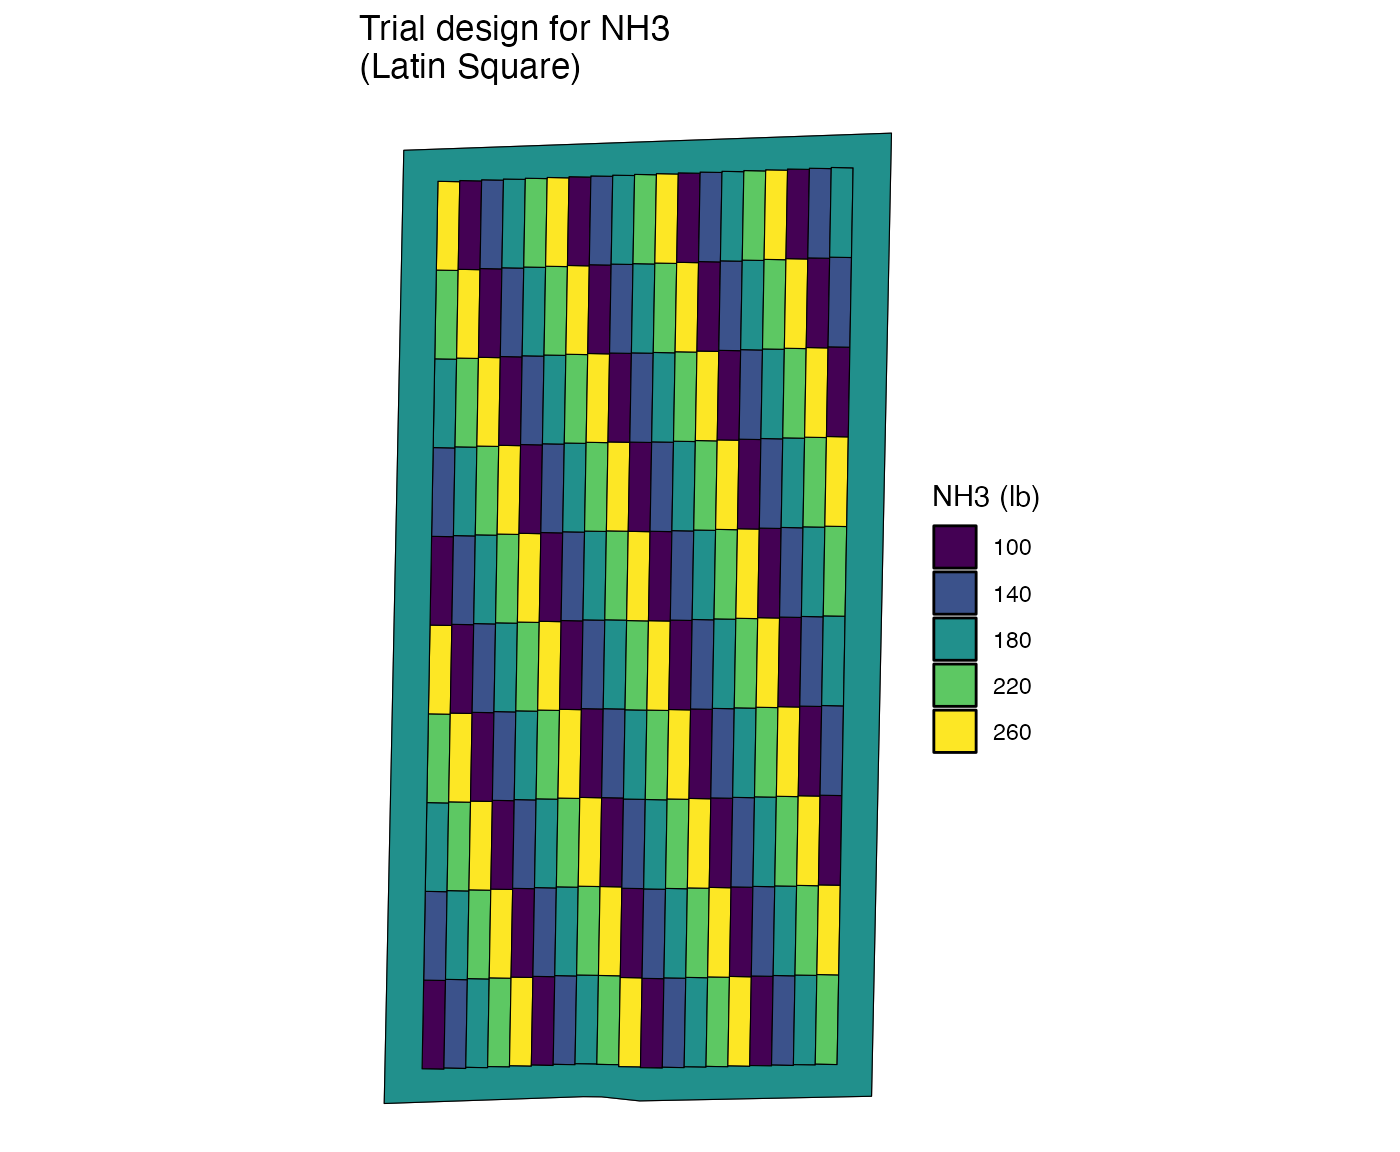
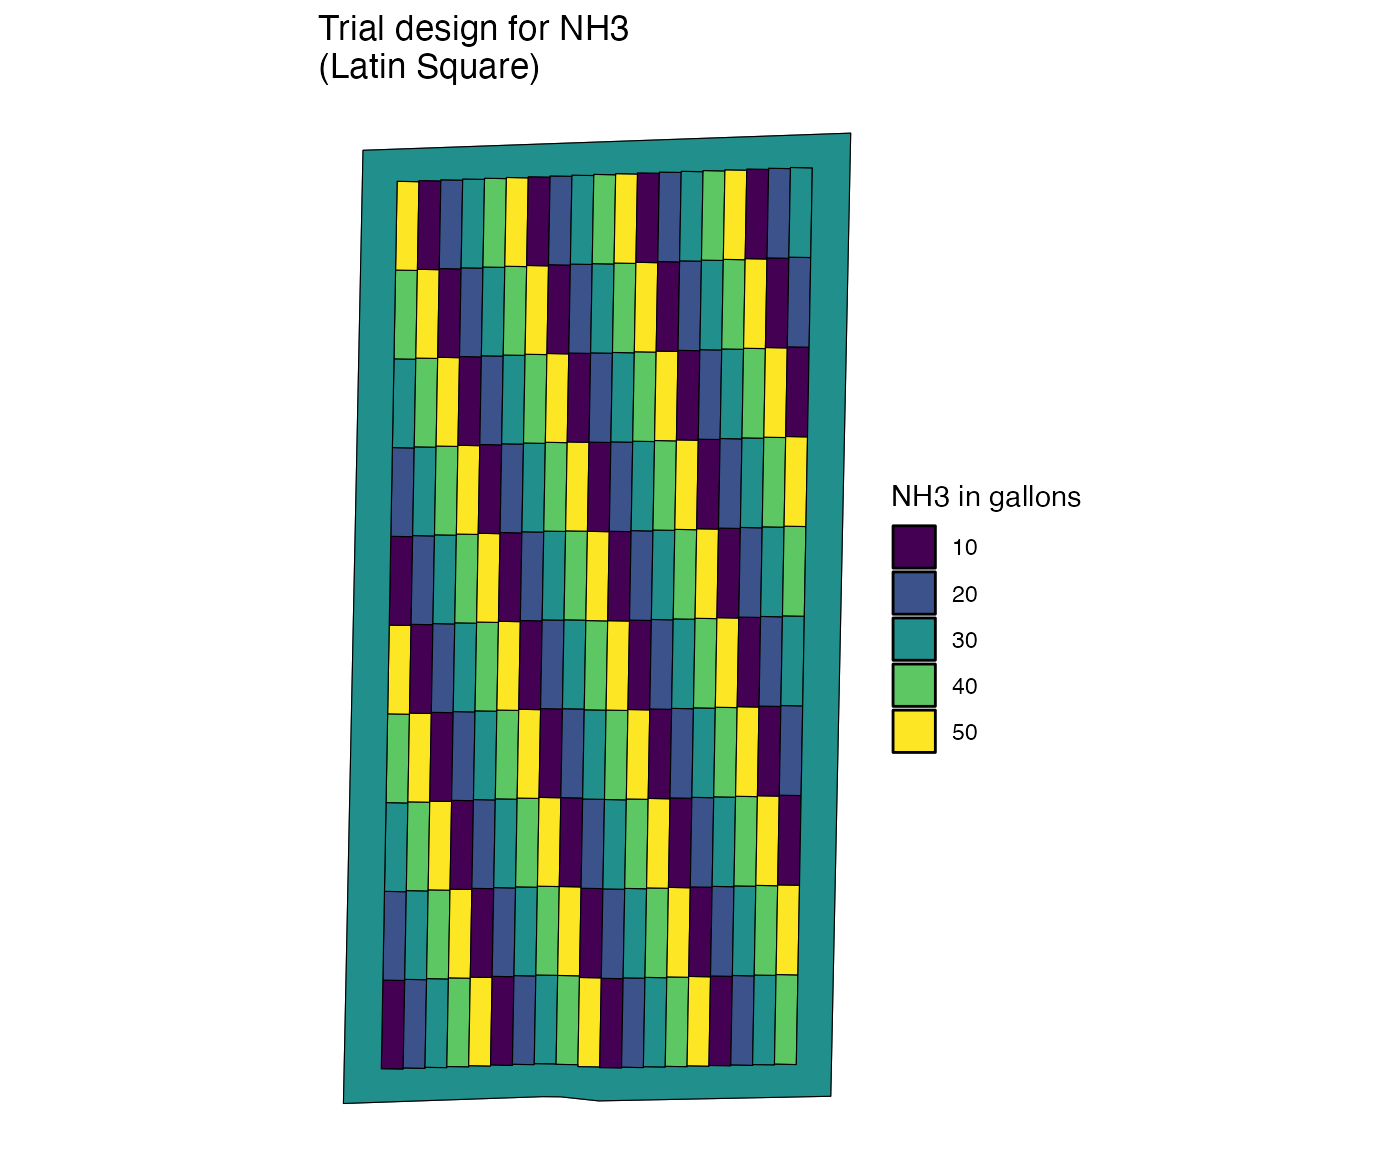
Adding all units conversions to trial maps with base rate

diff --git a/docs/articles/V5-understanding-structure.html b/docs/articles/V5-understanding-structure.html
@@ -289,8 +289,7 @@ experiment plots. Since, it is a list, you can access the
 <span>  <span class="op">)</span></span>
 <span></span>
 <span><span class="co">#--- assign rates ---#</span></span>
-<span><span class="va">td</span> <span class="op">&lt;-</span> <span class="fu"><a href="../reference/assign_rates.html">assign_rates</a></span><span class="op">(</span><span class="va">exp_data</span>, rate_info <span class="op">=</span> <span class="fu"><a href="https://rdrr.io/r/base/list.html" class="external-link">list</a></span><span class="op">(</span><span class="va">seed_rate_info</span>, <span class="va">n_rate_info</span><span class="op">)</span><span class="op">)</span></span>
-<span><span class="co">#&gt; Trial rates were not directly specified, so the trial rates were calculated using min_rate, max_rate, gc_rate, and num_rates</span></span></code></pre></div>
+<span><span class="va">td</span> <span class="op">&lt;-</span> <span class="fu"><a href="../reference/assign_rates.html">assign_rates</a></span><span class="op">(</span><span class="va">exp_data</span>, rate_info <span class="op">=</span> <span class="fu"><a href="https://rdrr.io/r/base/list.html" class="external-link">list</a></span><span class="op">(</span><span class="va">seed_rate_info</span>, <span class="va">n_rate_info</span><span class="op">)</span><span class="op">)</span></span></code></pre></div>
 <p>As you can see, <code>td</code> has a very similar structure and sets
 of variables (e.g., <code>input_name</code> and <code>exp_plots</code>
 were inherited from <code>exp_data</code>). This is not surprising
@@ -299,24 +298,37 @@ because we just assigned rates to the experiment plots with
 <div class="sourceCode" id="cb7"><pre class="downlit sourceCode r">
 <code class="sourceCode R"><span><span class="fu">dplyr</span><span class="fu">::</span><span class="fu"><a href="https://pillar.r-lib.org/reference/glimpse.html" class="external-link">glimpse</a></span><span class="op">(</span><span class="va">td</span><span class="op">)</span></span>
 <span><span class="co">#&gt; Rows: 2</span></span>
-<span><span class="co">#&gt; Columns: 17</span></span>
-<span><span class="co">#&gt; $ input_name       <span style="color: #949494; font-style: italic;">&lt;chr&gt;</span> "seed", "NH3"</span></span>
-<span><span class="co">#&gt; $ input_type       <span style="color: #949494; font-style: italic;">&lt;list&gt;</span> "S", "N"</span></span>
-<span><span class="co">#&gt; $ exp_plots        <span style="color: #949494; font-style: italic;">&lt;list&gt;</span> [&lt;sf[54 x 4]&gt;], [&lt;sf[243 x 4]&gt;]</span></span>
-<span><span class="co">#&gt; $ trial_design     <span style="color: #949494; font-style: italic;">&lt;list&gt;</span> [&lt;sf[55 x 5]&gt;], [&lt;sf[244 x 5]&gt;]</span></span>
-<span><span class="co">#&gt; $ gc_rate          <span style="color: #949494; font-style: italic;">&lt;dbl&gt;</span> 32000, 180</span></span>
-<span><span class="co">#&gt; $ design_type      <span style="color: #949494; font-style: italic;">&lt;chr&gt;</span> "jcls", "ls"</span></span>
-<span><span class="co">#&gt; $ unit             <span style="color: #949494; font-style: italic;">&lt;chr&gt;</span> "seed", "lb"</span></span>
-<span><span class="co">#&gt; $ abline_type      <span style="color: #949494; font-style: italic;">&lt;chr&gt;</span> "free", "free"</span></span>
-<span><span class="co">#&gt; $ ab_lines         <span style="color: #949494; font-style: italic;">&lt;list&gt;</span> [&lt;sf[1 x 2]&gt;], [&lt;sf[1 x 2]&gt;]</span></span>
-<span><span class="co">#&gt; $ harvest_ab_lines <span style="color: #949494; font-style: italic;">&lt;list&gt;</span> [&lt;sf[1 x 2]&gt;], [&lt;sf[1 x 2]&gt;]</span></span>
-<span><span class="co">#&gt; $ field_sf         <span style="color: #949494; font-style: italic;">&lt;MULTIPOLYGON [m]&gt;</span> MULTIPOLYGON (((352970.3 43..., MULTIPOLYGON (((35297…</span></span>
-<span><span class="co">#&gt; $ harvester_width  <span style="color: #949494; font-style: italic;">&lt;dbl&gt;</span> 9.144, 9.144</span></span>
-<span><span class="co">#&gt; $ machine_width    <span style="color: #949494; font-style: italic;">&lt;dbl&gt;</span> 18.288, 13.716</span></span>
-<span><span class="co">#&gt; $ plot_width       <span style="color: #949494; font-style: italic;">&lt;dbl&gt;</span> 60.000, 13.716</span></span>
-<span><span class="co">#&gt; $ section_num      <span style="color: #949494; font-style: italic;">&lt;dbl&gt;</span> 24, 1</span></span>
-<span><span class="co">#&gt; $ headland_length  <span style="color: #949494; font-style: italic;">&lt;dbl&gt;</span> 36.576, 36.576</span></span>
-<span><span class="co">#&gt; $ side_length      <span style="color: #949494; font-style: italic;">&lt;dbl&gt;</span> 13.716, 13.716</span></span></code></pre></div>
+<span><span class="co">#&gt; Columns: 30</span></span>
+<span><span class="co">#&gt; $ input_name        <span style="color: #949494; font-style: italic;">&lt;chr&gt;</span> "seed", "NH3"</span></span>
+<span><span class="co">#&gt; $ field_sf          <span style="color: #949494; font-style: italic;">&lt;MULTIPOLYGON [m]&gt;</span> MULTIPOLYGON (((352970.3 43..., MULTIPOLYGON (((3529…</span></span>
+<span><span class="co">#&gt; $ headland          <span style="color: #949494; font-style: italic;">&lt;list&gt;</span> [&lt;sf[1 x 5]&gt;], [&lt;sf[1 x 5]&gt;]</span></span>
+<span><span class="co">#&gt; $ exp_plots         <span style="color: #949494; font-style: italic;">&lt;list&gt;</span> [&lt;sf[54 x 4]&gt;], [&lt;sf[243 x 4]&gt;]</span></span>
+<span><span class="co">#&gt; $ ab_lines          <span style="color: #949494; font-style: italic;">&lt;list&gt;</span> [&lt;sf[1 x 2]&gt;], [&lt;sf[1 x 2]&gt;]</span></span>
+<span><span class="co">#&gt; $ harvest_ab_lines  <span style="color: #949494; font-style: italic;">&lt;list&gt;</span> [&lt;sf[1 x 2]&gt;], [&lt;sf[1 x 2]&gt;]</span></span>
+<span><span class="co">#&gt; $ plot_width        <span style="color: #949494; font-style: italic;">&lt;dbl&gt;</span> 60.000, 13.716</span></span>
+<span><span class="co">#&gt; $ harvester_width   <span style="color: #949494; font-style: italic;">&lt;dbl&gt;</span> 9.144, 9.144</span></span>
+<span><span class="co">#&gt; $ machine_width     <span style="color: #949494; font-style: italic;">&lt;dbl&gt;</span> 18.288, 13.716</span></span>
+<span><span class="co">#&gt; $ section_num       <span style="color: #949494; font-style: italic;">&lt;dbl&gt;</span> 24, 1</span></span>
+<span><span class="co">#&gt; $ headland_length   <span style="color: #949494; font-style: italic;">&lt;dbl&gt;</span> 36.576, 36.576</span></span>
+<span><span class="co">#&gt; $ side_length       <span style="color: #949494; font-style: italic;">&lt;dbl&gt;</span> 13.716, 13.716</span></span>
+<span><span class="co">#&gt; $ abline_type       <span style="color: #949494; font-style: italic;">&lt;chr&gt;</span> "free", "free"</span></span>
+<span><span class="co">#&gt; $ design_type       <span style="color: #949494; font-style: italic;">&lt;chr&gt;</span> "jcls", "ls"</span></span>
+<span><span class="co">#&gt; $ gc_rate           <span style="color: #949494; font-style: italic;">&lt;dbl&gt;</span> 32000, 180</span></span>
+<span><span class="co">#&gt; $ unit              <span style="color: #949494; font-style: italic;">&lt;chr&gt;</span> "seed", "lb"</span></span>
+<span><span class="co">#&gt; $ tgt_rate_original <span style="color: #949494; font-style: italic;">&lt;list&gt;</span> &lt;16000, 21333, 26667, 32000, 40000&gt;, &lt;1…</span></span>
+<span><span class="co">#&gt; $ tgt_rate_equiv    <span style="color: #949494; font-style: italic;">&lt;list&gt;</span> &lt;16000, 21333, 26667, 32000, 40000&gt;, &lt;82.0, 114.8, …</span></span>
+<span><span class="co">#&gt; $ include_base_rate <span style="color: #949494; font-style: italic;">&lt;lgl&gt;</span> FALSE, FALSE</span></span>
+<span><span class="co">#&gt; $ total_equiv       <span style="color: #949494; font-style: italic;">&lt;list&gt;</span> &lt;16000, 21333, 26667, 32000, 40000&gt;, &lt;100, 140, 180…</span></span>
+<span><span class="co">#&gt; $ min_rate          <span style="color: #949494; font-style: italic;">&lt;dbl&gt;</span> 16000, NA</span></span>
+<span><span class="co">#&gt; $ max_rate          <span style="color: #949494; font-style: italic;">&lt;dbl&gt;</span> 40000, NA</span></span>
+<span><span class="co">#&gt; $ num_rates         <span style="color: #949494; font-style: italic;">&lt;dbl&gt;</span> 5, 5</span></span>
+<span><span class="co">#&gt; $ rank_seq_ws       <span style="color: #949494; font-style: italic;">&lt;list&gt;</span> &lt;NULL&gt;, &lt;5, 4, 3, 2, 1&gt;</span></span>
+<span><span class="co">#&gt; $ rank_seq_as       <span style="color: #949494; font-style: italic;">&lt;list&gt;</span> &lt;NULL&gt;, &lt;NULL&gt;</span></span>
+<span><span class="co">#&gt; $ push              <span style="color: #949494; font-style: italic;">&lt;lgl&gt;</span> FALSE, TRUE</span></span>
+<span><span class="co">#&gt; $ rates_data        <span style="color: #949494; font-style: italic;">&lt;list&gt;</span> [&lt;data.table[5 x 2]&gt;], [&lt;data.table[5 x 2]&gt;]</span></span>
+<span><span class="co">#&gt; $ experiment_design <span style="color: #949494; font-style: italic;">&lt;list&gt;</span> [&lt;sf[54 x 5]&gt;], [&lt;sf[243 x 5]&gt;]</span></span>
+<span><span class="co">#&gt; $ input_type        <span style="color: #949494; font-style: italic;">&lt;list&gt;</span> "S", "N"</span></span>
+<span><span class="co">#&gt; $ trial_design      <span style="color: #949494; font-style: italic;">&lt;list&gt;</span> [&lt;sf[55 x 5]&gt;], [&lt;sf[244 x 5]&gt;]</span></span></code></pre></div>
 <p>A trial design (experiment plots with rates assigned) has a name of
 <code>trial_design</code>, which is also a list-column.</p>
 <div class="sourceCode" id="cb8"><pre class="downlit sourceCode r">
@@ -333,15 +345,15 @@ because we just assigned rates to the experiment plots with
 <span><span class="co">#&gt; Geodetic CRS:  WGS 84</span></span>
 <span><span class="co">#&gt; First 10 features:</span></span>
 <span><span class="co">#&gt;     rate strip_id plot_id       type                       geometry</span></span>
-<span><span class="co">#&gt; 1  16000        1       1 experiment POLYGON ((-16.69997 39.1199...</span></span>
-<span><span class="co">#&gt; 2  26667        1       2 experiment POLYGON ((-16.69997 39.1206...</span></span>
-<span><span class="co">#&gt; 3  40000        1       3 experiment POLYGON ((-16.69997 39.1213...</span></span>
-<span><span class="co">#&gt; 4  32000        1       4 experiment POLYGON ((-16.69997 39.1221...</span></span>
-<span><span class="co">#&gt; 5  21333        1       5 experiment POLYGON ((-16.69997 39.1228...</span></span>
-<span><span class="co">#&gt; 6  16000        1       6 experiment POLYGON ((-16.69997 39.1235...</span></span>
-<span><span class="co">#&gt; 7  26667        1       7 experiment POLYGON ((-16.69997 39.1242...</span></span>
-<span><span class="co">#&gt; 8  40000        1       8 experiment POLYGON ((-16.69997 39.125,...</span></span>
-<span><span class="co">#&gt; 9  32000        1       9 experiment POLYGON ((-16.69997 39.1257...</span></span>
+<span><span class="co">#&gt; 1  32000        1       1 experiment POLYGON ((-16.69997 39.1199...</span></span>
+<span><span class="co">#&gt; 2  21333        1       2 experiment POLYGON ((-16.69997 39.1206...</span></span>
+<span><span class="co">#&gt; 3  16000        1       3 experiment POLYGON ((-16.69997 39.1213...</span></span>
+<span><span class="co">#&gt; 4  26667        1       4 experiment POLYGON ((-16.69997 39.1221...</span></span>
+<span><span class="co">#&gt; 5  40000        1       5 experiment POLYGON ((-16.69997 39.1228...</span></span>
+<span><span class="co">#&gt; 6  32000        1       6 experiment POLYGON ((-16.69997 39.1235...</span></span>
+<span><span class="co">#&gt; 7  21333        1       7 experiment POLYGON ((-16.69997 39.1242...</span></span>
+<span><span class="co">#&gt; 8  16000        1       8 experiment POLYGON ((-16.69997 39.125,...</span></span>
+<span><span class="co">#&gt; 9  26667        1       9 experiment POLYGON ((-16.69997 39.1257...</span></span>
 <span><span class="co">#&gt; 10 40000        2       1 experiment POLYGON ((-16.69927 39.1199...</span></span>
 <span><span class="co">#&gt; </span></span>
 <span><span class="co">#&gt; [[2]]</span></span>
@@ -376,15 +388,15 @@ of course wrangle them direclty if you would like to.</p>
 <span><span class="co">#&gt; Geodetic CRS:  WGS 84</span></span>
 <span><span class="co">#&gt; First 10 features:</span></span>
 <span><span class="co">#&gt;     rate strip_id plot_id       type                       geometry</span></span>
-<span><span class="co">#&gt; 1  16000        1       1 experiment POLYGON ((-16.69997 39.1199...</span></span>
-<span><span class="co">#&gt; 2  26667        1       2 experiment POLYGON ((-16.69997 39.1206...</span></span>
-<span><span class="co">#&gt; 3  40000        1       3 experiment POLYGON ((-16.69997 39.1213...</span></span>
-<span><span class="co">#&gt; 4  32000        1       4 experiment POLYGON ((-16.69997 39.1221...</span></span>
-<span><span class="co">#&gt; 5  21333        1       5 experiment POLYGON ((-16.69997 39.1228...</span></span>
-<span><span class="co">#&gt; 6  16000        1       6 experiment POLYGON ((-16.69997 39.1235...</span></span>
-<span><span class="co">#&gt; 7  26667        1       7 experiment POLYGON ((-16.69997 39.1242...</span></span>
-<span><span class="co">#&gt; 8  40000        1       8 experiment POLYGON ((-16.69997 39.125,...</span></span>
-<span><span class="co">#&gt; 9  32000        1       9 experiment POLYGON ((-16.69997 39.1257...</span></span>
+<span><span class="co">#&gt; 1  32000        1       1 experiment POLYGON ((-16.69997 39.1199...</span></span>
+<span><span class="co">#&gt; 2  21333        1       2 experiment POLYGON ((-16.69997 39.1206...</span></span>
+<span><span class="co">#&gt; 3  16000        1       3 experiment POLYGON ((-16.69997 39.1213...</span></span>
+<span><span class="co">#&gt; 4  26667        1       4 experiment POLYGON ((-16.69997 39.1221...</span></span>
+<span><span class="co">#&gt; 5  40000        1       5 experiment POLYGON ((-16.69997 39.1228...</span></span>
+<span><span class="co">#&gt; 6  32000        1       6 experiment POLYGON ((-16.69997 39.1235...</span></span>
+<span><span class="co">#&gt; 7  21333        1       7 experiment POLYGON ((-16.69997 39.1242...</span></span>
+<span><span class="co">#&gt; 8  16000        1       8 experiment POLYGON ((-16.69997 39.125,...</span></span>
+<span><span class="co">#&gt; 9  26667        1       9 experiment POLYGON ((-16.69997 39.1257...</span></span>
 <span><span class="co">#&gt; 10 40000        2       1 experiment POLYGON ((-16.69927 39.1199...</span></span>
 <span></span>
 <span><span class="co">#--- change the rates to all 0 ---#</span></span>
@@ -430,7 +442,7 @@ have a mixed treatment problem.</p>
 <span><span class="co">#&gt; $ harvest_ab_line  <span style="color: #949494; font-style: italic;">&lt;LINESTRING [m]&gt;</span> LINESTRING (352984.9 433140..., LINESTRING (352984.9 …</span></span>
 <span><span class="co">#&gt; $ overlap_data     <span style="color: #949494; font-style: italic;">&lt;list&gt;</span> [&lt;data.table[40 x 7]&gt;], [&lt;data.table[41 x 7]&gt;]</span></span>
 <span><span class="co">#&gt; $ harvester_path   <span style="color: #949494; font-style: italic;">&lt;list&gt;</span> [&lt;sf[46 x 3]&gt;], [&lt;sf[46 x 3]&gt;]</span></span>
-<span><span class="co">#&gt; $ g_path_alignment <span style="color: #949494; font-style: italic;">&lt;list&gt;</span> [NULL, &lt;environment: 0x127187e40&gt;, &lt;enviro…</span></span>
+<span><span class="co">#&gt; $ g_path_alignment <span style="color: #949494; font-style: italic;">&lt;list&gt;</span> [NULL, &lt;environment: 0x145c02be8&gt;, &lt;enviro…</span></span>
 <span><span class="co">#&gt; $ g_overlap        <span style="color: #949494; font-style: italic;">&lt;list&gt;</span> [3.0000000, 4.0000000, 5.0000000, 6.0000000, 7.00000…</span></span></code></pre></div>
 <p>As you can see, its output has four list-columns and there are three
 different types of objects stored in them.</p>

diff --git a/docs/articles/V4-diagnose-td.html b/docs/articles/V4-diagnose-td.html
@@ -306,8 +306,7 @@ where the two input rates are highly correlated. Here is an example.</p>
 <span>    rank_seq_as <span class="op">=</span> <span class="fu"><a href="https://rdrr.io/r/base/c.html" class="external-link">c</a></span><span class="op">(</span><span class="fl">5</span>, <span class="fl">1</span>, <span class="fl">4</span>, <span class="fl">2</span>, <span class="fl">3</span><span class="op">)</span></span>
 <span>  <span class="op">)</span></span>
 <span></span>
-<span><span class="va">td_two_input</span> <span class="op">&lt;-</span> <span class="fu"><a href="../reference/assign_rates.html">assign_rates</a></span><span class="op">(</span><span class="va">exp_data</span>, rate_info <span class="op">=</span> <span class="fu"><a href="https://rdrr.io/r/base/list.html" class="external-link">list</a></span><span class="op">(</span><span class="va">seed_rate_info</span>, <span class="va">n_rate_info</span><span class="op">)</span><span class="op">)</span></span>
-<span><span class="co">#&gt; Trial rates were not directly specified, so the trial rates were calculated using min_rate, max_rate, gc_rate, and num_rates</span></span></code></pre></div>
+<span><span class="va">td_two_input</span> <span class="op">&lt;-</span> <span class="fu"><a href="../reference/assign_rates.html">assign_rates</a></span><span class="op">(</span><span class="va">exp_data</span>, rate_info <span class="op">=</span> <span class="fu"><a href="https://rdrr.io/r/base/list.html" class="external-link">list</a></span><span class="op">(</span><span class="va">seed_rate_info</span>, <span class="va">n_rate_info</span><span class="op">)</span><span class="op">)</span></span></code></pre></div>
 <p>Here is the visualization of the assigned rates for both inputs. It
 is easy to see that both input have exactly the same pattern because of
 the same <code>rank_seq_ws</code> and <code>plot_width</code>.</p>
@@ -353,8 +352,7 @@ assign rates to the new experiment plots.</p>
 <span><span class="co">#++++++++++++++++++++++++++++++++++++</span></span>
 <span><span class="co">#+ Assign rates again with the same rate information</span></span>
 <span><span class="co">#++++++++++++++++++++++++++++++++++++</span></span>
-<span><span class="va">td_two_input_2</span> <span class="op">&lt;-</span> <span class="fu"><a href="../reference/assign_rates.html">assign_rates</a></span><span class="op">(</span><span class="va">exp_data</span>, rate_info <span class="op">=</span> <span class="fu"><a href="https://rdrr.io/r/base/list.html" class="external-link">list</a></span><span class="op">(</span><span class="va">seed_rate_info</span>, <span class="va">n_rate_info</span><span class="op">)</span><span class="op">)</span></span>
-<span><span class="co">#&gt; Trial rates were not directly specified, so the trial rates were calculated using min_rate, max_rate, gc_rate, and num_rates</span></span></code></pre></div>
+<span><span class="va">td_two_input_2</span> <span class="op">&lt;-</span> <span class="fu"><a href="../reference/assign_rates.html">assign_rates</a></span><span class="op">(</span><span class="va">exp_data</span>, rate_info <span class="op">=</span> <span class="fu"><a href="https://rdrr.io/r/base/list.html" class="external-link">list</a></span><span class="op">(</span><span class="va">seed_rate_info</span>, <span class="va">n_rate_info</span><span class="op">)</span><span class="op">)</span></span></code></pre></div>
 <div class="sourceCode" id="cb14"><pre class="downlit sourceCode r">
 <code class="sourceCode R"><span><span class="fu"><a href="../reference/viz.html">viz</a></span><span class="op">(</span><span class="va">td_two_input_2</span><span class="op">)</span></span></code></pre></div>
 <p><img src="V4-diagnose-td_files/figure-html/unnamed-chunk-14-1.png" width="700"></p>
@@ -467,7 +465,7 @@ data)</li>
 <div class="sourceCode" id="cb24"><pre class="downlit sourceCode r">
 <code class="sourceCode R"><span><span class="va">yield_sf</span> <span class="op">&lt;-</span> <span class="fu">sf</span><span class="fu">::</span><span class="fu"><a href="https://r-spatial.github.io/sf/reference/st_read.html" class="external-link">st_read</a></span><span class="op">(</span><span class="fu"><a href="https://rdrr.io/r/base/system.file.html" class="external-link">system.file</a></span><span class="op">(</span><span class="st">"extdata"</span>, <span class="st">"yield-simple1.shp"</span>, package <span class="op">=</span> <span class="st">"ofpetrial"</span><span class="op">)</span><span class="op">)</span></span>
 <span><span class="co">#&gt; Reading layer `yield-simple1' from data source </span></span>
-<span><span class="co">#&gt;   `/private/var/folders/tg/3shgnxh95bj__tdvkkmgs8n80000gn/T/RtmpswRPSM/temp_libpath6dd63fa6f5b3/ofpetrial/extdata/yield-simple1.shp' </span></span>
+<span><span class="co">#&gt;   `/private/var/folders/tg/3shgnxh95bj__tdvkkmgs8n80000gn/T/RtmpZ9uc8n/temp_libpath134c43d62db22/ofpetrial/extdata/yield-simple1.shp' </span></span>
 <span><span class="co">#&gt;   using driver `ESRI Shapefile'</span></span>
 <span><span class="co">#&gt; Simple feature collection with 16822 features and 34 fields</span></span>
 <span><span class="co">#&gt; Geometry type: POINT</span></span>
@@ -487,7 +485,7 @@ data)</li>
 <span>  <span class="fu">sf</span><span class="fu">::</span><span class="fu"><a href="https://r-spatial.github.io/sf/reference/st_read.html" class="external-link">st_read</a></span><span class="op">(</span><span class="fu"><a href="https://rdrr.io/r/base/system.file.html" class="external-link">system.file</a></span><span class="op">(</span><span class="st">"extdata"</span>, <span class="st">"ssurgo-simple1.shp"</span>, package <span class="op">=</span> <span class="st">"ofpetrial"</span><span class="op">)</span><span class="op">)</span> <span class="op"><a href="../reference/pipe.html">%&gt;%</a></span></span>
 <span>  <span class="fu">dplyr</span><span class="fu">::</span><span class="fu"><a href="https://dplyr.tidyverse.org/reference/mutate.html" class="external-link">mutate</a></span><span class="op">(</span>mukey <span class="op">=</span> <span class="fu"><a href="https://rdrr.io/r/base/factor.html" class="external-link">factor</a></span><span class="op">(</span><span class="va">mukey</span><span class="op">)</span><span class="op">)</span></span>
 <span><span class="co">#&gt; Reading layer `ssurgo-simple1' from data source </span></span>
-<span><span class="co">#&gt;   `/private/var/folders/tg/3shgnxh95bj__tdvkkmgs8n80000gn/T/RtmpswRPSM/temp_libpath6dd63fa6f5b3/ofpetrial/extdata/ssurgo-simple1.shp' </span></span>
+<span><span class="co">#&gt;   `/private/var/folders/tg/3shgnxh95bj__tdvkkmgs8n80000gn/T/RtmpZ9uc8n/temp_libpath134c43d62db22/ofpetrial/extdata/ssurgo-simple1.shp' </span></span>
 <span><span class="co">#&gt;   using driver `ESRI Shapefile'</span></span>
 <span><span class="co">#&gt; Simple feature collection with 11 features and 9 fields</span></span>
 <span><span class="co">#&gt; Geometry type: POLYGON</span></span>
